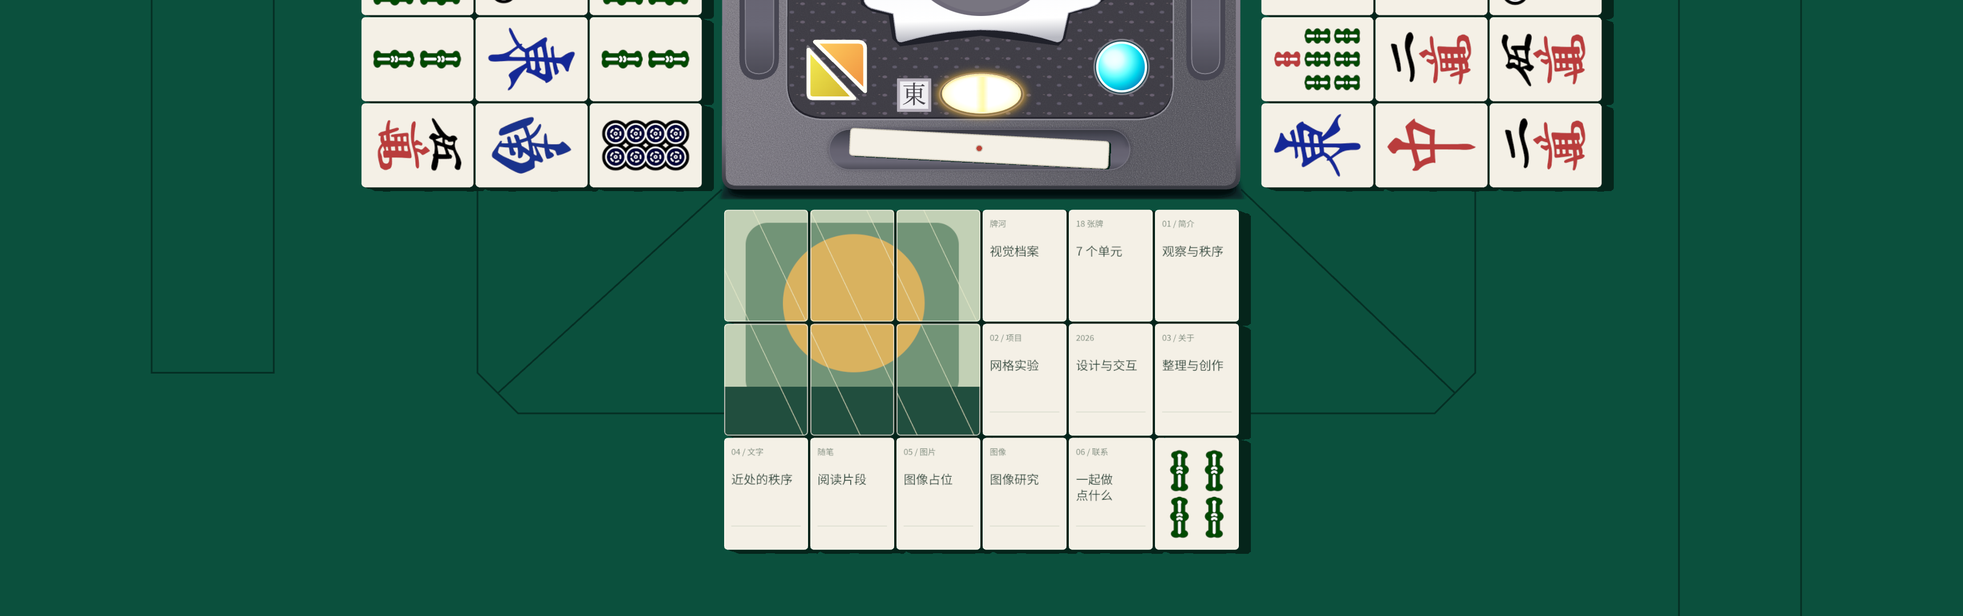
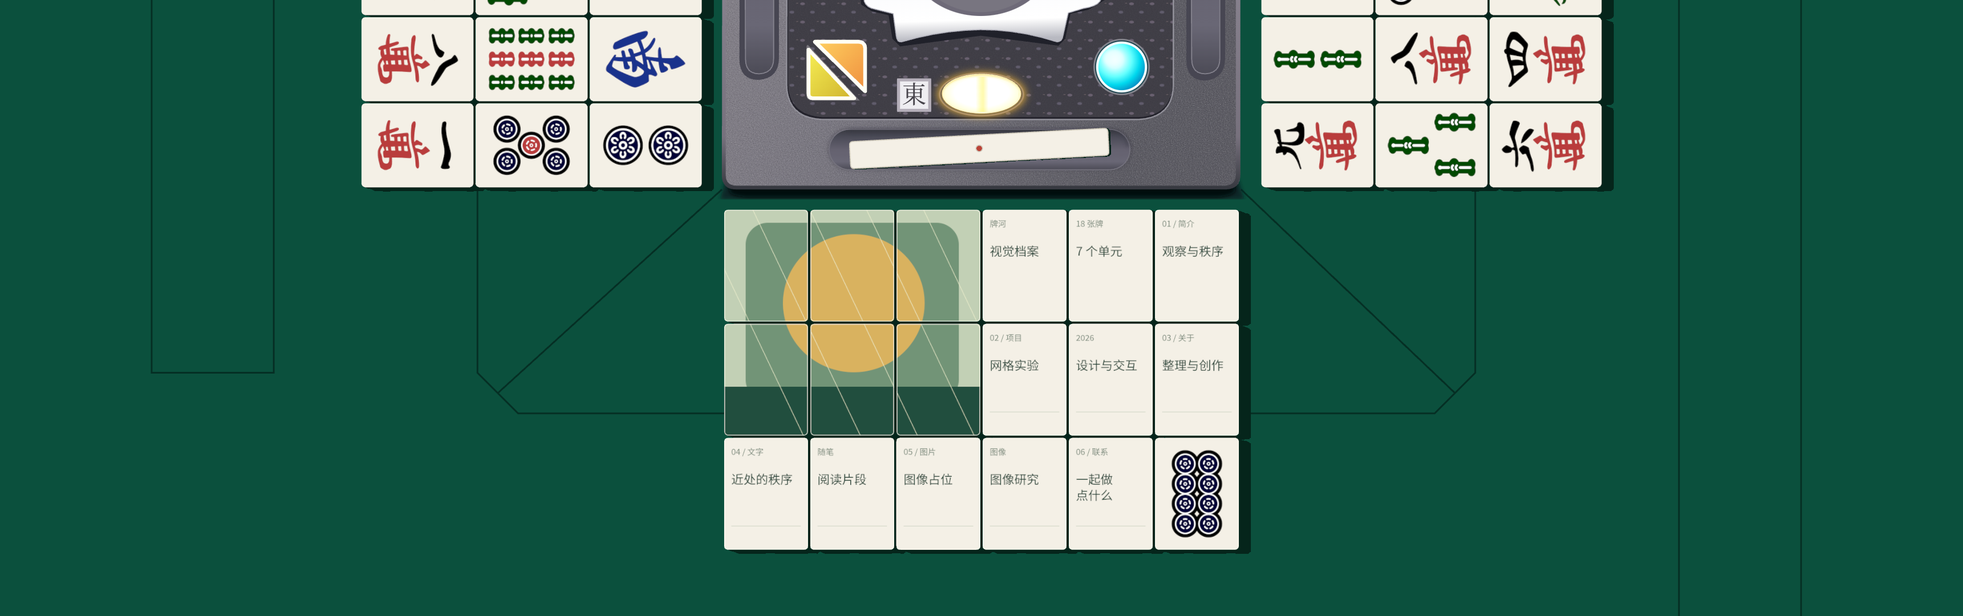
Reset from open side rivers and refresh faces after complete reveal waves

diff --git a/app.js b/app.js
@@ -1,10 +1,10 @@
-import { smooth, center, entryScale, flipPose, motionDistance } from './geometry.js?v=20261011-start-button';
-import { Mahjong3D, VIEW } from './mahjong-3d.js?v=20261011-start-button';
-import { REST_STICK, STICK_PICKUP_DURATION, createStickDrop, stickMotionDistance } from './score-stick.js?v=20261011-start-button';
-import { flipAt, settleFlips, revealTiles, resetTiles, topLeftTile, yellowAction } from './tile-interactions.js?v=20261011-start-button';
-import { RIICHI_FACES, nextRiichiFace, sideRiverFaces } from './riichi-faces.js?v=20261011-start-button';
-import { sideRiverCenters } from './river-layout.js?v=20261011-start-button';
-import { drawTableSeams, tableLayout } from './table-surface.js?v=20261011-start-button';
+import { smooth, center, entryScale, flipPose, motionDistance } from './geometry.js?v=20261011-side-reset';
+import { Mahjong3D, VIEW } from './mahjong-3d.js?v=20261011-side-reset';
+import { REST_STICK, STICK_PICKUP_DURATION, createStickDrop, stickMotionDistance } from './score-stick.js?v=20261011-side-reset';
+import { flipAt, settleFlips, revealTiles, resetTiles, topLeftTile, yellowAction, waveInProgress, tileAction } from './tile-interactions.js?v=20261011-side-reset';
+import { RIICHI_FACES, nextRiichiFace, sideRiverFaces } from './riichi-faces.js?v=20261011-side-reset';
+import { sideRiverCenters } from './river-layout.js?v=20261011-side-reset';
+import { drawTableSeams, tableLayout } from './table-surface.js?v=20261011-side-reset';
 import { CONTROL } from './physical-layout.js';
 
 const $ = (id) => document.getElementById(id);
@@ -22,6 +22,7 @@ let hovered = null, pressed = null;
 let raf = 0, pixelScale = 1, orderCounter = 0;
 let mahjong, consoleImage;
 const riichiImages = new Map();
+const sideFragments = new Map();
 const CONTROL_HINTS = { dealer: 'github', streak: 'bilibili', reset: '重置', 'blue-light': '探索' };
 let hoveredControl = null, focusedControl = null;
 let stickDrop = null, stickEpoch = 0, restingStick = REST_STICK;
@@ -113,14 +114,19 @@ async function buildTextures() {
   }
   for (const tile of tiles) tile.back = back.element;
   changeRiichiFace();
-  const faces = sideRiverFaces(), fragments = new Map();
+  changeSideFaces();
+}
+
+function changeSideFaces() {
+  const faces = sideRiverFaces(sideTiles.length);
   sideTiles.forEach((tile, index) => {
     const face = faces[index];
-    if (!fragments.has(face.code)) {
+    if (!sideFragments.has(face.code)) {
       const texture = makeTexture(164, 224);
-      paintRiichiFace(texture.element, face); fragments.set(face.code, texture.element);
+      paintRiichiFace(texture.element, face); sideFragments.set(face.code, texture.element);
     }
-    Object.assign(tile, { face, riichiFace: face, fragment: fragments.get(face.code) });
+    Object.assign(tile, { face, riichiFace: face, fragment: sideFragments.get(face.code) });
+    mahjong?.updateTileFront(tile.index, tile.fragment, face.code);
     tile.button.dataset.riichiFace = face.code; updateTileLabel(tile);
   });
 }
@@ -259,9 +265,10 @@ function render(time) {
   if (resetCycle && time >= resetCycle.end) {
     resetCycle = null; phase = 'idle'; $('reset').disabled = false;
     changeRiichiFace();
+    changeSideFaces();
     $('status').textContent = '三处牌河已恢复蓝背。点击黄色灯开始，或点击任意蓝背牌再次展开。';
   }
-  if (interactive() && tiles.every(tile => tile.front && !tile.flips.length)) $('status').textContent = '三处牌河全部翻开。点击黄色灯，从所有牌中左上方的一张开始波纹合牌。';
+  if (interactive() && tiles.every(tile => tile.front && !tile.flips.length)) $('status').textContent = '三处牌河全部翻开。点击黄色灯或两侧牌河，从全局左上方开始波纹合牌并更换两侧牌面。';
   board.setAttribute('aria-busy', String(phase === 'entry' || Boolean(resetCycle) || tiles.some((tile) => tile.flips.length)));
   const sceneryOpacity = smooth((time - epoch) / SCENERY_FADE_DURATION);
   canvas.style.opacity = String(sceneryOpacity);
@@ -315,8 +322,10 @@ function startReset() {
   if (!interactive()) return;
   const time = performance.now();
   for (const tile of tiles) settleFlips(tile, time);
+  if (waveInProgress(tiles)) return;
   if (yellowAction(tiles) === 'start') { startReveal(topLeftTile(tiles)); return; }
   resetCycle = resetTiles(tiles, time, tiles.map((tile) => poseAt(tile, time)));
+  if (!resetCycle) return;
   hovered = null; pressed = null; phase = 'reset-conceal';
   for (const tile of tiles) updateTileLabel(tile);
   $('reset').disabled = true; board.setAttribute('aria-busy', 'true');
@@ -327,7 +336,8 @@ function startReset() {
 
 function updateTileLabel(tile) {
   const label = tile.front ? tile.riichiFace?.label ?? UNIT_NAMES[tile.unit] : '揭示档案';
-  tile.button.setAttribute('aria-label', `${label}，${tilePositionLabel(tile)}`);
+  const action = tile.front && tile.side !== 'main' ? '，点击重置所有牌并更换两侧牌面' : '';
+  tile.button.setAttribute('aria-label', `${label}，${tilePositionLabel(tile)}${action}`);
   tile.button.setAttribute('aria-busy', String(Boolean(tile.flips.length)));
   tile.button.dataset.face = tile.front ? 'front' : 'back';
 }
@@ -354,18 +364,20 @@ function createHitTargets() {
       tweenTo(tile, 1, 200);
     });
     button.addEventListener('pointerdown', (event) => {
-      if (!interactive() || tile.front || tile.flips.length || (event.button !== undefined && event.button !== 0)) return;
+      if (!interactive() || !tileAction(tiles, tile) || (event.button !== undefined && event.button !== 0)) return;
       pressed = tile.index; tweenTo(tile, 1.015, 70);
     });
     button.addEventListener('pointercancel', () => { pressed = null; tweenTo(tile, hovered === tile.index ? 1.04 : 1, 200); });
     button.addEventListener('click', () => {
       if (!interactive()) return;
       pressed = null;
-      startReveal(tile);
+      const action = tileAction(tiles, tile);
+      if (action === 'reset') startReset();
+      else if (action === 'reveal') startReveal(tile);
     });
     button.addEventListener('keydown', (event) => {
       if (!interactive()) return;
-      if (!tile.front && (event.key === 'Enter' || event.key === ' ')) tweenTo(tile, 1.015, 70);
+      if (tileAction(tiles, tile) && (event.key === 'Enter' || event.key === ' ')) tweenTo(tile, 1.015, 70);
       const direction = { ArrowLeft: [-1, 0], ArrowRight: [1, 0], ArrowUp: [0, -1], ArrowDown: [0, 1] }[event.key];
       if (direction !== undefined) {
         event.preventDefault();
@@ -384,6 +396,7 @@ function createHitTargets() {
 function syncControlState() {
   const action = yellowAction(tiles), label = action === 'start' ? '开始' : '重置';
   const control = $('reset');
+  control.disabled = !interactive() || waveInProgress(tiles);
   control.dataset.action = action;
   control.setAttribute('aria-label', `黄色灯${label}：从所有牌中左上方的一张开始波纹${action === 'start' ? '展开' : '合牌'}`);
   const current = hoveredControl ?? focusedControl;
@@ -437,7 +450,7 @@ async function initialize() {
     style.addEventListener('error', () => reject(new Error('Stylesheet failed to load')), { once: true });
   });
   await document.fonts.ready;
-  await Promise.all([buildTextures(), loadImage('./assets/control-box.svg?v=20261011-start-button').then((image) => { consoleImage = image; })]);
+  await Promise.all([buildTextures(), loadImage('./assets/control-box.svg?v=20261011-side-reset').then((image) => { consoleImage = image; })]);
   mahjong = new Mahjong3D($('mahjong'), mainTiles, sideTiles);
   updateControlHint();
   resize();

diff --git a/tests/tile-interactions.test.js b/tests/tile-interactions.test.js
@@ -2,10 +2,10 @@ import test from 'node:test';
 import assert from 'node:assert/strict';
 import { center, flipPose } from '../geometry.js';
 import { sideRiverCenters } from '../river-layout.js';
-import { topLeftTile, yellowAction, rippleDelays, flipAt, settleFlips, revealTiles, resetTiles } from '../tile-interactions.js';
+import { topLeftTile, yellowAction, waveInProgress, tileAction, rippleDelays, flipAt, settleFlips, revealTiles, resetTiles } from '../tile-interactions.js';
 
 const makeTiles = () => [...Array.from({ length: 18 }, (_, index) => center(index)), ...sideRiverCenters('kamicha'), ...sideRiverCenters('shimocha')]
-  .map((position, index) => ({ ...position, index, front: false, flips: [], tween: null }));
+  .map((position, index) => ({ side: 'main', ...position, index, front: false, flips: [], tween: null }));
 const rest = { theta: 0, q: 1, height: 0 };
 const poses = (tiles, time) => tiles.map(tile => {
   const flip = flipAt(tile, time);
@@ -13,7 +13,7 @@ const poses = (tiles, time) => tiles.map(tile => {
     : { theta: tile.front ? Math.PI : 0, q: 1, height: 0 };
 });
 
-test('yellow control starts a closed board at the global top-left and resets an open or moving board', () => {
+test('yellow control labels a closed board start and an open or moving board reset', () => {
   const tiles = makeTiles();
   assert.equal(yellowAction(tiles), 'start');
   const cycle = revealTiles(tiles, topLeftTile(tiles).index, 100, poses(tiles, 100));
@@ -89,23 +89,37 @@ test('reset leaves unopened tiles on their backs and never reveals them first', 
   }
 });
 
-test('reset interrupts a reveal continuously, cancels queued unopened reveals and finishes closed', () => {
+test('reset and every tile click are ignored until the complete reveal wave ends', () => {
   for (const origin of [0, 23, 48]) {
     const tiles = makeTiles(); revealTiles(tiles, origin, 0, tiles.map(() => ({ ...rest, q: 1.04, height: 1 })));
-    const at = 180, before = poses(tiles, at);
-    const active = tiles.filter(tile => tile.flips[0].start <= at), queued = tiles.filter(tile => tile.flips[0].start > at);
-    const activeFlips = new Map(active.map(tile => [tile.index, structuredClone(tile.flips[0])]));
-    const cycle = resetTiles(tiles, at, before);
-    for (const tile of active) {
-      assert.deepEqual(tile.flips[0], activeFlips.get(tile.index));
-      assert.deepEqual(poses(tiles, at)[tile.index], before[tile.index]);
-      assert.ok(tile.flips[1].start >= tile.flips[0].start + 600);
-      assert.equal(tile.flips[1].fromFront, true);
+    for (const at of [0, 180, 650, 1199]) {
+      for (const tile of tiles) settleFlips(tile, at);
+      const before = structuredClone(tiles), beforePoses = poses(tiles, at);
+      assert.equal(waveInProgress(tiles), true);
+      assert.ok(tiles.every(tile => tileAction(tiles, tile) === null));
+      assert.equal(resetTiles(tiles, at, beforePoses), null);
+      assert.deepEqual(tiles, before);
+      assert.deepEqual(poses(tiles, at), beforePoses);
     }
-    for (const tile of queued) { assert.equal(tile.flips.length, 0); assert.equal(tile.front, false); }
-    assert.ok(cycle.end <= at + 1200);
+    for (const tile of tiles) settleFlips(tile, 1200);
+    assert.equal(waveInProgress(tiles), false);
+    assert.ok(tiles.every(tile => tile.front));
+    const cycle = resetTiles(tiles, 1200, poses(tiles, 1200));
+    assert.equal(cycle.end, 2400);
     for (const tile of tiles) settleFlips(tile, cycle.end);
     assert.ok(tiles.every(tile => !tile.front && !tile.flips.length));
     assert.ok(revealTiles(tiles, origin, cycle.end + 1, poses(tiles, cycle.end + 1)));
   }
+});
+
+test('open side rivers reset the board while the open main river remains inactive', () => {
+  const tiles = makeTiles();
+  assert.ok(tiles.every(tile => tileAction(tiles, tile) === 'reveal'));
+  tiles.forEach(tile => tile.front = true);
+  assert.ok(tiles.slice(0, 18).every(tile => tileAction(tiles, tile) === null));
+  assert.ok(tiles.slice(18).every(tile => tileAction(tiles, tile) === 'reset'));
+  const cycle = resetTiles(tiles, 0, poses(tiles, 0));
+  assert.ok(tiles.every(tile => tileAction(tiles, tile) === null));
+  for (const tile of tiles) settleFlips(tile, cycle.end);
+  assert.ok(tiles.every(tile => tileAction(tiles, tile) === 'reveal'));
 });

diff --git a/tile-interactions.js b/tile-interactions.js
@@ -1,4 +1,4 @@
-import { SPEC } from './geometry.js?v=20261011-start-button';
+import { SPEC } from './geometry.js?v=20261011-side-reset';
 
 export function topLeftTile(tiles) {
   return tiles.reduce((first, tile) => !first || tile.y < first.y || (tile.y === first.y && tile.x < first.x) ? tile : first, null);
@@ -6,6 +6,15 @@ export function topLeftTile(tiles) {
 
 export function yellowAction(tiles) {
   return tiles.every(tile => !tile.front && !tile.flips.length) ? 'start' : 'reset';
+}
+
+export function waveInProgress(tiles) {
+  return tiles.some(tile => tile.flips.length);
+}
+
+export function tileAction(tiles, tile) {
+  if (waveInProgress(tiles)) return null;
+  return tile.front ? (tile.side === 'main' ? null : 'reset') : 'reveal';
 }
 
 export function rippleDelays(tiles, origin) {
@@ -42,22 +51,15 @@ export function revealTiles(tiles, originIndex, time, poses) {
 }
 
 export function resetTiles(tiles, time, poses) {
+  for (const tile of tiles) settleFlips(tile, time);
+  // A reset can begin only after the entire reveal wave has finished.
+  if (waveInProgress(tiles)) return null;
   const origin = topLeftTile(tiles), delays = rippleDelays(tiles, origin);
   tiles.forEach((tile, index) => {
-    settleFlips(tile, time);
-    const current = flipAt(tile, time), pose = poses[index];
-    // Cancel unopened, queued reveals. A reveal already rotating finishes
-    // continuously, then closes when the reset wave has reached that position.
-    const activeReveal = current && !current.fromFront && current.start <= time;
-    if (activeReveal) {
-      tile.flips = [{ ...current }, flipFrom(Math.max(time + delays[index], current.start + SPEC.flipDuration), true, { q: 1, height: 0 })];
-    } else if (tile.front) {
-      tile.flips = [flipFrom(time + delays[index], true, pose)];
-    } else {
-      tile.flips = [];
-    }
+    const pose = poses[index];
+    tile.flips = tile.front ? [flipFrom(time + delays[index], true, pose)] : [];
     tile.tween = null;
-    if (!tile.front && !activeReveal && pose.q !== 1) tile.tween = { from: pose.q, to: 1, duration: 200, start: time };
+    if (!tile.front && pose.q !== 1) tile.tween = { from: pose.q, to: 1, duration: 200, start: time };
   });
   return { origin: origin.index, end: Math.max(time, ...tiles.flatMap(tile => tile.flips.map(flip => flip.start + SPEC.flipDuration))) };
 }

diff --git a/mahjong-3d.js b/mahjong-3d.js
@@ -1,7 +1,7 @@
 import * as THREE from './vendor/three.module.js';
-import { SPEC } from './geometry.js?v=20261011-start-button';
+import { SPEC } from './geometry.js?v=20261011-side-reset';
 import { mm } from './physical-layout.js';
-import { STICK, REST_STICK } from './score-stick.js?v=20261011-start-button';
+import { STICK, REST_STICK } from './score-stick.js?v=20261011-side-reset';
 
 // Includes every lifted/rotated silhouette and the light's maximum projected shadow.
 export const VIEW = Object.freeze({ left: -160, top: 0, width: 2240, height: 1040 });
@@ -141,6 +141,7 @@ export class Mahjong3D {
       }
       return this.textures.get(source);
     };
+    this.textureFrom = texture;
     const makeTile = (tile, name) => {
       const group = new THREE.Group(); group.name = name; group.userData.rotation = tile.rotation ?? 0;
       const backCap = toon({ map: texture(tile.back) }), frontCap = toon({ map: texture(tile.fragment) });
@@ -243,8 +244,11 @@ export class Mahjong3D {
     }
   }
 
-  updateTileFront(index) {
-    this.groups[index].children[2].material[0].map.needsUpdate = true;
+  updateTileFront(index, source, faceCode) {
+    const group = this.groups[index], material = group.children[2].material[0];
+    if (source) material.map = this.textureFrom(source);
+    if (faceCode) group.userData.face = faceCode;
+    material.map.needsUpdate = true;
   }
 
   setStickHint(text) {

diff --git a/index.html b/index.html
@@ -13,9 +13,9 @@
       #loading[hidden] { display: none; }
     </style>
     <link rel="icon" href="./assets/favicon.svg" type="image/svg+xml">
-    <link id="page-style" rel="stylesheet" href="./styles.css?v=20261011-start-button" media="print" onload="this.media='all'">
-    <noscript><link rel="stylesheet" href="./styles.css?v=20261011-start-button"></noscript>
-    <script src="./app.js?v=20261011-start-button" type="module"></script>
+    <link id="page-style" rel="stylesheet" href="./styles.css?v=20261011-side-reset" media="print" onload="this.media='all'">
+    <noscript><link rel="stylesheet" href="./styles.css?v=20261011-side-reset"></noscript>
+    <script src="./app.js?v=20261011-side-reset" type="module"></script>
   </head>
   <body>
     <div id="loading" role="status" aria-live="polite"><span id="loading-text">loading</span></div>

diff --git a/score-stick.js b/score-stick.js
@@ -5,7 +5,7 @@ import { REAL_SIZE, mm, STICK_CENTER } from './physical-layout.js';
 // The same millimeter conversion as the tiles and 2D control box.
 export const STICK = Object.freeze({ length: mm(REAL_SIZE.stick.length), width: mm(REAL_SIZE.stick.width), thickness: mm(REAL_SIZE.stick.thickness), x: STICK_CENTER.x, y: -STICK_CENTER.y });
 export const MAX_STICK_YAW = 8 * Math.PI / 180;
-export const INITIAL_STICK_ANGLE = 3 * Math.PI / 180;
+export const INITIAL_STICK_ANGLE = -3 * Math.PI / 180;
 // Screen Y points down; invert the screen angle for the 3D world's Z rotation.
 export const REST_STICK = Object.freeze({ x: STICK.x, y: STICK.y, z: STICK.thickness / 2, quaternion: Object.freeze(new Quaternion().setFromAxisAngle(new Vector3(0, 0, 1), -INITIAL_STICK_ANGLE).toArray()) });
 const STEP = 1 / 240, PICKUP = 360, GRAVITY = 1600;

diff --git a/tests/score-stick.test.js b/tests/score-stick.test.js
@@ -8,9 +8,9 @@ function random(seed) {
   return () => { seed = (1664525 * seed + 1013904223) >>> 0; return seed / 4294967296; };
 }
 
-test('the initial stick sits flat at the slot midpoint with a plus-three-degree screen angle', () => {
+test('the initial stick sits flat at the slot midpoint with a minus-three-degree screen angle', () => {
   const axis = new Vector3(1, 0, 0).applyQuaternion(new Quaternion().fromArray(REST_STICK.quaternion));
-  assert.equal(INITIAL_STICK_ANGLE, 3 * Math.PI / 180);
+  assert.equal(INITIAL_STICK_ANGLE, -3 * Math.PI / 180);
   assert.ok(Math.abs(Math.atan2(-axis.y, axis.x) - INITIAL_STICK_ANGLE) < .000001);
   assert.equal(REST_STICK.x, STICK.x); assert.equal(REST_STICK.y, STICK.y);
   assert.ok(Math.abs(stickClearance(REST_STICK)) < .000001);

diff --git a/river-layout.js b/river-layout.js
@@ -1,4 +1,4 @@
-import { SPEC, center } from './geometry.js?v=20261011-start-button';
+import { SPEC, center } from './geometry.js?v=20261011-side-reset';
 import { CONTROL } from './physical-layout.js';
 
 // Rotate the main river around the full square control box, including the part

diff --git a/README.md b/README.md
@@ -24,7 +24,7 @@
 
 左侧上家、右侧下家各补全一个 6 × 3 的三维牌河，围绕完整方形控制盒的中心分别旋转 90°。牌体尺寸与间隔和主牌河相同，朝向对应玩家；屏幕边缘自然裁切超出的部分。正面采用同一套本地日麻 SVG，保持四周留白，使用原有三渲二材质和唯一方向光的真实阴影。
 
-两侧共用一个由 **34 种普通牌面各两张**构成的随机牌池，页面加载时不放回抽取 36 张。排除赤五 `0m`、`0p`、`0s`，两侧合计同一种牌最多两张。三处牌河都默认**蓝背朝上**，共 54 张牌，使用相同的悬停、鼠标、键盘和触屏交互，并共同参与展开及重置波纹。两侧随机牌面在重置后保留；下方牌河右下角牌仍在每次重置后换牌。
+两侧共用一个由 **34 种普通牌面各两张**构成的随机牌池，页面加载时不放回抽取 36 张。排除赤五 `0m`、`0p`、`0s`，两侧合计同一种牌最多两张。三处牌河都默认**蓝背朝上**，共 54 张牌，使用相同的悬停、鼠标、键盘和触屏交互，并共同参与展开及重置波纹。每次合牌完成后，两侧重新从同一个牌池抽取 36 张，仍无赤五且每种合计最多两张；下方牌河右下角牌也继续换牌。两侧正面牌可触发与黄色灯相同的重置，下方正面牌保持无响应。
 
 ![下方、上家与下家牌河的正面及玩家朝向](docs/v2-riichi-preview.png)
 
@@ -49,10 +49,10 @@
 ## 保持的交互
 
 - 初次打开：中央 loading 淡出后，全部牌河的蓝背统一进场，其他部件同步淡入；入场开始 1100 ms 后可操作，不自动揭示。
-- **点击蓝背牌**：以点击的这一张为波纹中心，按实际牌位的欧氏距离依次翻开全部 54 张牌。三处牌河共用同一个波纹，最远牌延迟 600 ms 开始，每张翻转 600 ms，全程最多 1200 ms。已翻开的牌跳过；重复点击正面牌或已经排入波纹的牌不会重启动画。
-- **黄色灯开始 / 重置**：全部未翻开且没有进行中的翻转时，点击黄色灯从全局左上方的牌开始波纹展开全部 54 张牌，点棒提示为“开始”。展开中或有牌正面朝上时，同一按钮改为“重置”，从相同起点直接波纹合牌，跳过牌背，不等待 0.5 秒。起点按所有牌的实际位置确定，包含两侧超出屏幕的牌，在现有布局中是上家牌河最外侧一列最上方的牌。展开或全部正面合牌均最多 1200 ms；合完后恢复“开始”。在展开途中重置会取消尚未开始的翻转，正在翻转的牌连续完成后再合上，避免姿态跳变。合牌期间忽略重复重置和牌面点击。
+- **点击蓝背牌**：以点击的这一张为波纹中心，按实际牌位的欧氏距离依次翻开全部 54 张牌。三处牌河共用同一个波纹，最远牌延迟 600 ms 开始，每张翻转 600 ms，全程最多 1200 ms。已翻开的牌跳过；展开波纹结束前，牌面点击和黄色灯点击均无效，不会中断或重启动画。
+- **黄色灯开始 / 重置**：全部未翻开且没有进行中的翻转时，点击黄色灯从全局左上方的牌开始波纹展开全部 54 张牌，点棒提示为“开始”。展开中或有牌正面朝上时，同一按钮改为“重置”，从相同起点直接波纹合牌，跳过牌背，不等待 0.5 秒。起点按所有牌的实际位置确定，包含两侧超出屏幕的牌，在现有布局中是上家牌河最外侧一列最上方的牌。展开或全部正面合牌均最多 1200 ms；合完后恢复“开始”。展开期间黄色灯禁用，点击按钮或两侧牌面都无效；必须等全部 54 张翻完才能重置。合牌期间同样忽略重复重置和牌面点击。合牌完成后统一刷新两侧 36 张牌面，不含赤五、同一种最多两张。
 - 单牌悬停：围绕自身中心放大 4%，独立内容同步变化，邻牌不缩放。
-- 正面牌再次点击没有反应，也不弹窗。控制盒的起家与连庄按钮在新标签页打开对应主页，四个按钮通过点棒显示悬停提示。
+- **点击正面牌**：两侧牌河执行与黄色灯相同的全局左上合牌及换牌；下方牌河保持没有反应。不弹窗。控制盒的起家与连庄按钮在新标签页打开对应主页，四个按钮通过点棒显示悬停提示。
 - 鼠标、键盘 Enter / 空格及触屏均可触发三处牌河的波纹。方向键按屏幕中的实际方向选择可见牌；点击区域裁切到实际露出的部分，屏幕外的牌不接受焦点，不引起页面滚动。
 - 无论系统“减少动态效果”设置如何，都执行上述默认动画。
 
@@ -76,7 +76,7 @@
 
 - **实物参考**：[日本麻雀用具专门店的白色千点棒](https://item.rakuten.co.jp/auc-e-mahjong/siro-tenbo1000/)，商品尺寸约 65 × 7 × 3 mm。与牌和控制盒使用同一毫米比例，得到 455 × 49 × 21 的圆角实体；中央红点嵌入两侧宽面，棒体不显示标题或点数文字。[近代麻雀的点棒说明](https://kinmaweb.jp/mahjong-rule/tenbou)确认传统点棒依靠点纹区分点数。
 - **拿起与松手**：整段拿起、掉落和回弹动画以原来的 1.5 倍速度播放，抬起用时由 360 ms 缩短为 240 ms。每次改变长轴、短轴方向的倾角；随后在重力作用下掉落。拿起下一次时，从上一次落定的实际位置和方向连续开始。
-- **初始偏斜**：点棒初始在屏幕中为 **+3°**，右端略向下，仍平放在槽中且中点固定。第一次点击从这个实际姿态拿起；后续落定方向继续遵守原有的水平 ±8° 范围。
+- **初始偏斜**：点棒初始在屏幕中为 **−3°**，右端略向上，仍平放在槽中且中点固定。第一次点击从这个实际姿态拿起；后续落定方向继续遵守原有的水平 ±8° 范围。
 - **圆角与落点**：点棒外轮廓圆角约 0.8 mm，边缘使用 0.25 mm 的三段圆润倒角。整个动画的水平中点固定在立直棒槽中心；每次独立选择落定方向，相对最初水平状态在 **−8° 到 +8°** 之间，不累积上一次的角度。抬起与碰撞期间仍保留三维端部倾斜和摇晃，落定后棒体平放。
 - **碰撞与弹跳**：使用 240 Hz 固定步长计算刚体角动量、惯性、角点接触冲量、恢复系数和摩擦，并约束水平中点和落定方向。一端先着地会带动棒体旋转，再发生另一端碰撞和回弹；通过加速播放保留完整轨迹，原来约 1.0–1.4 秒的动画缩短为约 0.67–0.93 秒。没有预设的上下往返弹跳曲线。
 - **同一三维场景**：与麻将共用正上方正交相机、卡通材质和唯一方向光，阴影随真实高度和姿态变化。槽位、控制盒和导航按钮仍为二维。
@@ -88,7 +88,7 @@
 
 - **正上方正交相机**：采用无近大远小的平行投影，保持原有正俯视构图。物件构图仍为 1920 × 1080，6 × 3 牌阵、147 × 196 牌面、4 px 间距；桌面画布向左、右、下方扩展。窗口缩放只等比缩放，不改变相机方向。
 - **真实实体**：每张牌使用圆角挤出几何体，具有 115.5 的厚度，蓝背 / 牌芯 / 正面分层为 28 / 80.5 / 7，保持原有分层比例。翻转是绕长轴的真实三维旋转，抬起使用真实高度；最低点始终位于桌面之上。
-- **独立贴图**：仍在加载后切分跨牌图像，每牌持有自己的正面片段，右下角片段替换为日麻牌面。重置后更新现有 GPU 贴图，不重复创建纹理。正面 UV 预先校正，翻转完成后文字正向且不镜像。
+- **牌面贴图**：加载后切分下方跨牌图像，右下角片段替换为日麻牌面并在重置后更新现有 GPU 贴图。两侧按 34 种普通牌面缓存画布及 GPU 纹理，换牌时切换并复用，缓存不会随重置次数持续增长。正面 UV 预先校正，翻转完成后文字正向且不镜像。
 - **三渲二材质**：使用单一白色梯度的 `MeshToonMaterial`，保持既有纹理和分层配色。牌面不附加明暗渐变、自阴影、高光或反射。
 - **真实光源**：只使用一个方向光和深度阴影贴图，桌面接收模型投射的真实硬边阴影。阴影随实体轮廓、旋转和抬起高度变化，已删除固定右影矩形、牌缝色块和拼接阴影的模拟代码。
 - **没有新增光影效果**：没有环境光、环境贴图、AO、辉光、景深、软阴影或镜面反射。控制盒不参与三维光照。
@@ -112,7 +112,7 @@ python3 -m http.server 8080
 
 部署完成后访问 **https://5h1nryu.github.io/ShinRyu/**。
 
-本次更新给入口脚本、样式、麻将与点棒模块、翻牌交互模块、日麻牌面模块、桌面接缝模块和控制盒图片的 URL 加了 `v=20261011-start-button` 版本参数，让浏览器和 CDN 按新地址获取资源。后续修改这些资源时应同步更新对应版本参数，包括引用它们的模块入口。
+本次更新给入口脚本、样式、麻将与点棒模块、翻牌交互模块、日麻牌面模块、桌面接缝模块和控制盒图片的 URL 加了 `v=20261011-side-reset` 版本参数，让浏览器和 CDN 按新地址获取资源。后续修改这些资源时应同步更新对应版本参数，包括引用它们的模块入口。
 
 ## 检查与文件
 
@@ -123,7 +123,7 @@ npm run check
 npm test
 ```
 
-测试覆盖黄色灯全背时开始、展开中及已展开时重置、合完后恢复开始的状态切换，54 个展开波纹起点及按距离传播、所有牌的全局左上起点、正面点击无效、混合牌面及全部正面合牌、展开途中取消未开始的翻转及保持进行中的姿态、两侧翻转长轴与正面朝向、初始点棒 +3°、主牌河间距缩为三分之一、两侧随机牌池无赤五及合计最多两张、37 种 SVG 与 136 张牌的权重、相邻重置换牌不重复、参考图接缝比例、固定构图与桌面扩展、统一毫米比例、三维模型厚度与桌面穿透、正面 UV、正交相机，以及点棒加速、圆角、碰撞、回弹、固定中点和连续 80 次落定角度变化与 ±8° 上限。检查工作流同时覆盖 main 与 v2 的推送。
+测试覆盖黄色灯全背时开始、展开中及已展开时重置、合完后恢复开始的状态切换，54 个展开波纹起点及按距离传播、所有牌的全局左上起点、两侧正面点击重置及下方正面点击无效、混合牌面及全部正面合牌、完整展开之前禁止重置并保持原波纹、两侧翻转长轴与正面朝向、初始点棒 −3°、主牌河间距缩为三分之一、两侧加载及每次重置随机牌池无赤五及合计最多两张、37 种 SVG 与 136 张牌的权重、相邻重置换牌不重复、参考图接缝比例、固定构图与桌面扩展、统一毫米比例、三维模型厚度与桌面穿透、正面 UV、正交相机，以及点棒加速、圆角、碰撞、回弹、固定中点和连续 80 次落定角度变化与 ±8° 上限。检查工作流同时覆盖 main 与 v2 的推送。
 
 | 文件 | 用途 |
 | --- | --- |
